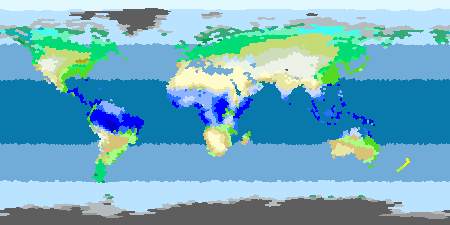
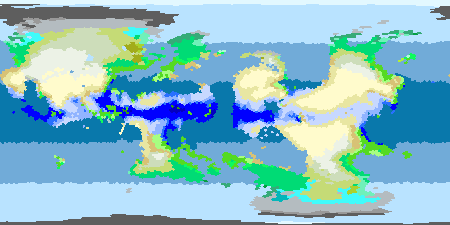
more climate adjustment. welcome back mediterranean!

diff --git a/planet/src/main/kotlin/dev/biserman/planet/planet/climate/ClimateSimulationGlobals.kt b/planet/src/main/kotlin/dev/biserman/planet/planet/climate/ClimateSimulationGlobals.kt
@@ -15,8 +15,8 @@ object ClimateSimulationGlobals {
 
     // ITCZ PATHFINDING
 
-    var itczPathfindingNowVsAnnualInsolationLerp = 0.4
-    var itczPathfindingContinentialityWeight = 0.015
+    var itczPathfindingNowVsAnnualInsolationLerp = 0.6
+    var itczPathfindingContinentialityWeight = 0.01
 
     // AIR PRESSURE
 
@@ -43,10 +43,10 @@ object ClimateSimulationGlobals {
     var coolCurrentAirPressureStrength = 5.0 // maximum impact of cool currents on air pressure in mb
 
     // the following section is complex & silly, I recommend ignoring it
-    var airPressureSeasonalContinentialityExp = 3.2 // higher exp -> more seasonality & faster drop-off
+    var airPressureSeasonalContinentialityExp = 6.4 // higher exp -> more seasonality & faster drop-off
     var airPressureSeasonalInsolationCenter = 0.6 // the expected insolation during the mid-latitude equinox
     var airPressureSeasonalInsolationExp = 1.01 // the expected insolation during the mid-latitude equinox
-    var airPressureSeasonalAdjustmentScalar = 0.008 // a scalar on seasonal air pressure adjustment
+    var airPressureSeasonalAdjustmentScalar = 0.016 // a scalar on seasonal air pressure adjustment
     var airPressureSeasonalScalarMin = 5.0 // the minimum scalar effect of seasonality on air pressure in mb
     var airPressureSeasonalScalarMax = 20.0 // the maximum scalar effect of seasonality on air pressure in mb
     var airPressureSeasonalExpectedMin = -2.0 // see usage
@@ -60,66 +60,68 @@ object ClimateSimulationGlobals {
 
     // WIND
 
-    var windBlockingSlope = 750.0
-    var maxWindBlocking = 0.98
-    var backwardsWind = 0.025
+    var windBlockingSlope = 600.0
+    var maxWindBlocking = 0.99
+    var backwardsWind = 0.01
 
     // TEMPERATURE
 
-    var baseTemperature = 244.0 // °K, base temperature of land
-    var baseTemperatureInsolationScalar = 78.0 // °K, increasing by 1°K ≈ 0.9°K increase in tropical summer temperatures
+    var baseTemperature = 239.0 // °K, base temperature of land
+    var baseTemperatureInsolationScalar = 83.0 // °K, increasing by 1°K ≈ 0.9°K increase in tropical summer temperatures
 
     var oceanMinBaseTemp = 256.0 // °K, lowest possible ocean temperature
-    var oceanBaseTemp = 250.25 // °K, increasing by 1°K ≈ 1°K increase in global ocean temperatures
-    var oceanNowVsAnnualInsolationLerp = 0.5 // ∈[0,1], higher varues -> less seasonality
+    var oceanBaseTemp = 253.25 // °K, increasing by 1°K ≈ 1°K increase in global ocean temperatures
+    var oceanNowVsAnnualInsolationLerp = 0.4 // ∈[0,1], higher values -> less seasonality
     var oceanNowVsAnnualInsolationLerpPow = 0.75 // higher exp -> less insolation & more seasonality
-    var oceanInsolationScale = 58.0 // °K, increasing by 1°K ≈ 1°K increase in tropical ocean temperatures
+    var oceanInsolationScale = 54.0 // °K, increasing by 1°K ≈ 1°K increase in tropical ocean temperatures
 
-    var oceanWaterVsLandTemperatureLerp = 0.05 // lower varues = more oceanic, higher varues = more landlike temperature
-    var shoreWaterVsLandTemperatureLerpExp = 0.5 // higher exp -> peninsularity matters more for temperature moderation
-    var shoreWaterVsLandTemperatureLerpMin = 0.1 // min lerp like above but for shorelines, modulated by peninsularity
-    var shoreWaterVsLandTemperatureLerpMax = 0.45 // max lerp like above but for shorelines, modulated by peninsularity
-    var inlandWaterVsLandTemperatureContinentialityScalar = 0.5 // lerp scalar for inland tiles based on continentiality
+    var oceanWaterVsLandTemperatureLerp = 0.05 // lower values = more oceanic, higher values = more landlike temperature
+    var shoreWaterVsLandTemperatureLerpExp = 0.33 // higher exp -> peninsularity matters more for temperature moderation
+    var shoreWaterVsLandTemperatureLerpMin = 0.05 // min lerp like above but for shorelines, modulated by peninsularity
+    var shoreWaterVsLandTemperatureLerpMax = 0.1 // max lerp like above but for shorelines, modulated by peninsularity
+    var inlandWaterVsLandTemperatureContinentialityScalar = 0.2 // lerp scalar for inland tiles based on continentiality
 
     var dryLapseRate = -0.0098 // °C/meter
     var dryLapseRateScalar = 0.66 // linear scalar on dry lapse rate
 
     // the furthest away in tiles from the shore that ocean currents can affect temperature
     var maxOceanCurrentTemperatureContinentiality = 5.0
-    var warmCurrentTemperatureStrength = 1.5 // °K, the max temperature increase from a warm current
+    var warmCurrentTemperatureStrength = 3.0 // °K, the max temperature increase from a warm current
     var warmCurrentTemperatureDistance = 3.0 // the furthest away that a warm current can affect temperature (in tiles)
     var coolCurrentTemperatureStrength = -1.0 // °K, the max temperature decrease from a cool current
     var coolCurrentTemperatureDistance = 3.0 // the furthest away that a cool current can affect temperature (in tiles)
+    var currentTemperatureAverageInsolationExp = 2.5
 
     var moistureCoolingTargetTemperature = 273.15 // °K, the temperature that added moisture warms/cools towards
-    var moistureCoolingExp = 0.5 // higher exp -> less moisture cooling & faster moisture cooling drop-off
+    var moistureCoolingExp = 0.75 // higher exp -> less moisture cooling & faster moisture cooling drop-off
     var maxMoistureCoolingLerp = 0.38 // max % that moisture can cool temperature towards target
     var maxMoistureForCooling = 3.0 // added moisture above this varue has no impact on cooling
 
     // MOISTURE
 
     var maxMoistureSteps = 50 // the maximum amount of steps the moisture simulator can run
-    var startingMoistureMultiplier = 1.0 // multiply all starting moisture by this varue
-    var minStartingMoisture = 0.15 // minimum starting moisture
+    var startingMoistureMultiplier = 1.75 // multiply all starting moisture by this varue
+    var minStartingMoisture = 0.05 // minimum starting moisture
     var maxStartingMoisture = 3.0 // maximum starting moisture
-    var oceanMoistureInsolationExp = 20.0 // higher exp -> less ocean moisture & most seasonality
+    var oceanMoistureInsolationExp = 3.0 // higher exp -> less ocean moisture & most seasonality
+    var oceanMoistureInsolationNowVsAnnualLerp = 0.66
 
     // awful hack to help moisture propagate into continental interiors
     var moisturePropagationMultiplier = 1.05 // VERY sensitive. can cause exponential turbo-rain
 
     // ITCZ = inter-tropical convergence zone
     var itczMoistureMaxDistance = 5.0 // max distance (in tiles) at which the ITCZ effects moisture
-    var itczMoistureExp = 3.0 // higher exp -> less ITCZ effect & faster effect decay with distance
-    var itczMoistureScalar = 3.0 // how much is moisture multiplied by directly under the ITCZ
+    var itczMoistureExp = 1.5 // higher exp -> less ITCZ effect & faster effect decay with distance
+    var itczMoistureScalar = 1.5 // how much is moisture multiplied by directly under the ITCZ
 
     var equatorMoistureEffectMaxContinentiality = 12.0 // maximum continentiality for equator moisture effect
-    var equatorMoistureEffectScalar = 7.0 // maximum amount that equator can effect moisture
+    var equatorMoistureEffectScalar = 5.0 // maximum amount that equator can effect moisture
     var equatorMoistureEffectInsolationExp = 4.0 // higher exp -> lower moisture effect at equator & faster drop-off
-    var equatorMoistureEffectMaxDistance = 5.0 // max distance that equatorial updraft effects moisture, in °latitude
+    var equatorMoistureEffectMaxDistance = 2.0 // max distance that equatorial updraft effects moisture, in °latitude
 
     var ferrelMoistureEffectMaxContinentiality = 12.0 // maximum continentiality for ferrel moisture effect
-    var ferrelMoistureEffectScalar = 2.3 // exponential falloff rate for ferrel moisture effect
-    var ferrelMoistureEffectMax = 0.25 // maximum amount that ferrel cell updraft can effect moisture
+    var ferrelMoistureEffectScalar = 1.75 // exponential falloff rate for ferrel moisture effect
+    var ferrelMoistureEffectMax = 0.4 // maximum amount that ferrel cell updraft can effect moisture
     var ferrelMoistureEffectInsolationExp = 0.75 // higher exp -> lower ferrel moisture effect & faster drop-off
     var ferrelMoistureEffectMaxDistance = 15.0 // max distance that ferrel cell updraft effects moisture
     var ferrelMoistureEffectLatitude = 60.0 // °latitude at which ferrel moisture effect is centered
@@ -129,13 +131,14 @@ object ClimateSimulationGlobals {
 
     // the furthest away in tiles from the shore that ocean currents can affect moisture
     var maxOceanCurrentMoistureContinentiality = 5.0
-    var warmCurrentMoistureStrength = 2.0 // °K, the max moisture increase from a warm current
+    var warmCurrentMoistureStrength = 15.0 // °K, the max moisture increase from a warm current
     var warmCurrentMoistureDistance = 2.0 // the furthest away that a warm current can affect moisture
-    var coolCurrentMoistureStrength = -0.3 // °K, the max moisture decrease from a cool current
-    var coolCurrentMoistureDistance = 5.0 // the furthest away that a cool current can affect moisture
+    var coolCurrentMoistureStrength = -2.5 // °K, the max moisture decrease from a cool current
+    var coolCurrentMoistureDistance = 4.0 // the furthest away that a cool current can affect moisture
+    var currentMoistureAverageInsolationExp = 1.5
 
     var minPrecipitation = 0.01 // min % of moisture to precipitate per tile a cloud moves
-    var upslopeOfMinMoisture = 750.0 // at what slope does moisture propagation drop to the % below
+    var upslopeOfMinMoisture = 600.0 // at what slope does moisture propagation drop to the % below
     var minUpslopeMoisture = 0.1 // proportional, must be ≤ 1.0
     var upslopeMoistureExp = 2.0 // higher exp -> less moisture & faster moisture loss upslope
     var saturationThreshold = 1.0 // simulator tries to push water away from tiles with moisture higher than this varue

diff --git a/planet/src/main/kotlin/dev/biserman/planet/planet/climate/ClimateSimulation.kt b/planet/src/main/kotlin/dev/biserman/planet/planet/climate/ClimateSimulation.kt
@@ -39,6 +39,8 @@ import dev.biserman.planet.planet.climate.ClimateSimulationGlobals.coolCurrentMo
 import dev.biserman.planet.planet.climate.ClimateSimulationGlobals.coolCurrentMoistureStrength
 import dev.biserman.planet.planet.climate.ClimateSimulationGlobals.coolCurrentTemperatureDistance
 import dev.biserman.planet.planet.climate.ClimateSimulationGlobals.coolCurrentTemperatureStrength
+import dev.biserman.planet.planet.climate.ClimateSimulationGlobals.currentMoistureAverageInsolationExp
+import dev.biserman.planet.planet.climate.ClimateSimulationGlobals.currentTemperatureAverageInsolationExp
 import dev.biserman.planet.planet.climate.ClimateSimulationGlobals.dryLapseRate
 import dev.biserman.planet.planet.climate.ClimateSimulationGlobals.dryLapseRateScalar
 import dev.biserman.planet.planet.climate.ClimateSimulationGlobals.equatorMoistureEffectInsolationExp
@@ -72,6 +74,7 @@ import dev.biserman.planet.planet.climate.ClimateSimulationGlobals.moisturePropa
 import dev.biserman.planet.planet.climate.ClimateSimulationGlobals.oceanBaseTemp
 import dev.biserman.planet.planet.climate.ClimateSimulationGlobals.oceanInsolationScale
 import dev.biserman.planet.planet.climate.ClimateSimulationGlobals.oceanMinBaseTemp
+import dev.biserman.planet.planet.climate.ClimateSimulationGlobals.oceanMoistureInslationNowVsAnnualLerp
 import dev.biserman.planet.planet.climate.ClimateSimulationGlobals.oceanMoistureInsolationExp
 import dev.biserman.planet.planet.climate.ClimateSimulationGlobals.oceanNowVsAnnualInsolationLerp
 import dev.biserman.planet.planet.climate.ClimateSimulationGlobals.oceanNowVsAnnualInsolationLerpPow
@@ -197,7 +200,7 @@ object ClimateSimulation {
                 max(
                     0.0,
                     warmCurrentAirPressureMaxContinentiality -
-                            (warmCurrentAirPressureContinentialityCenter - continentiality)
+                            (warmCurrentAirPressureContinentialityCenter - continentiality).absoluteValue
                 ) * (1.0 / warmCurrentAirPressureMaxContinentiality)
             val coolContinentialityFactor =
                 max(
@@ -258,19 +261,20 @@ object ClimateSimulation {
                 val oceanCurrentContinentialityFactor = if (tile.continentiality >= 0) 1.0 else {
                     max(0.0, 1.0 + (tile.continentiality + 1) * oceanCurrentContinentialityScalar)
                 }
+                val oceanMoistureInsolation = lerp(tile.insolation, tile.averageInsolation, oceanMoistureInslationNowVsAnnualLerp).pow(oceanMoistureInsolationExp)
                 val warmCurrentEffect =
-                    warmCurrentMoistureStrength * tile.insolation * oceanCurrentContinentialityFactor *
+                    warmCurrentMoistureStrength * oceanMoistureInsolation * tile.averageInsolation.pow(currentMoistureAverageInsolationExp) * oceanCurrentContinentialityFactor *
                             max(
                                 warmCurrentMoistureDistance - (planet.warmCurrentDistanceMap[tile.tileId]?.toDouble()
                                     ?: warmCurrentMoistureDistance), 0.0
                             )
                 val coolCurrentEffect =
-                    coolCurrentMoistureStrength * tile.insolation * oceanCurrentContinentialityFactor *
+                    coolCurrentMoistureStrength * oceanMoistureInsolation * tile.averageInsolation.pow(currentMoistureAverageInsolationExp) * oceanCurrentContinentialityFactor *
                             max(
                                 coolCurrentMoistureDistance - (planet.coolCurrentDistanceMap[tile.tileId]?.toDouble()
                                     ?: coolCurrentMoistureDistance), 0.0
                             )
-                ((tile.insolation.pow(oceanMoistureInsolationExp) + warmCurrentEffect + coolCurrentEffect) * startingMoistureMultiplier)
+                ((oceanMoistureInsolation + warmCurrentEffect + coolCurrentEffect) * startingMoistureMultiplier)
                     .coerceIn(minStartingMoisture..maxStartingMoisture)
             }
             equatorEffect + ferrelEffect + oceanEffect
@@ -349,12 +353,12 @@ object ClimateSimulation {
                 warmCurrentTemperatureStrength * max(
                     warmCurrentTemperatureDistance - (planet.warmCurrentDistanceMap[tileId] ?: return 0.0),
                     0.0
-                ) * insolation * (1.0 - averageInsolation) * oceanCurrentContinentialityFactor
+                ) * insolation * averageInsolation.pow(currentTemperatureAverageInsolationExp) * oceanCurrentContinentialityFactor
             val coolCurrentAdjustment =
                 coolCurrentTemperatureStrength * max(
                     coolCurrentTemperatureDistance - (planet.coolCurrentDistanceMap[tileId] ?: return 0.0),
                     0.0
-                ) * insolation * averageInsolation * oceanCurrentContinentialityFactor
+                ) * insolation * averageInsolation.pow(currentTemperatureAverageInsolationExp) * oceanCurrentContinentialityFactor
 
             val elevationAdjustment = dryLapseRate * dryLapseRateScalar * max(0.0, elevation)
 

diff --git a/planet/src/main/kotlin/dev/biserman/planet/planet/climate/OceanCurrents.kt b/planet/src/main/kotlin/dev/biserman/planet/planet/climate/OceanCurrents.kt
@@ -14,6 +14,7 @@ import kotlin.math.PI
 import kotlin.math.abs
 import kotlin.math.absoluteValue
 import kotlin.math.min
+import kotlin.math.max
 import kotlin.math.pow
 
 class OceanCurrent(val planetTile: PlanetTile, val direction: Vector3, val temperature: Double)
@@ -48,8 +49,8 @@ object OceanCurrents {
         val equatorialCellIndex = cells / 2
         val bands = (0..<cells).map { i ->
             OceanBand(
-                bottomLatitudeDegrees = -75 + i * degreesPerCell,
-                topLatitudeDegrees = -75 + (i + 1) * degreesPerCell,
+                bottomLatitudeDegrees = max(-75 + i * degreesPerCell, -60.0),
+                topLatitudeDegrees = min(-74 + (i + 1) * degreesPerCell, 60.0),
                 polarity = when {
                     i == equatorialCellIndex -> 0.0
                     abs(equatorialCellIndex - i) % 2 == 1 -> -1.0
